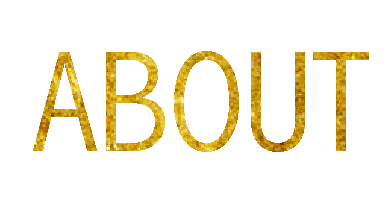
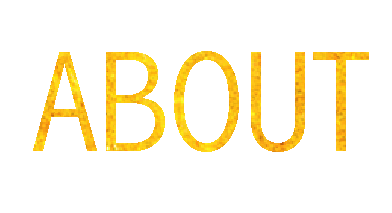
created portion of about section

Changed region(s): [[0.0612, 0.2254, 0.6122, 0.7324], [0.6429, 0.2254, 0.949, 0.7324]]

diff --git a/views/About/about.css b/views/About/about.css
@@ -1,0 +1,117 @@
+@import url('https://fonts.googleapis.com/css?family=Open+Sans+Condensed:300');
+@import url('https://fonts.googleapis.com/css?family=Sacramento');
+
+/*font-family: 'Sacramento', cursive;
+font-family: 'Open Sans Condensed', sans-serif;
+*/
+
+.nav-container {
+    width: 100%;
+    height: 87px;
+    background: black;
+    display: flex;
+    justify-content: center;
+    align-items: center;
+}
+
+.about-text {
+    font-family: 'Sacramento', cursive;
+    font-size: 60px;
+    font-weight: 100;
+    color: gold;
+    /*text-transform: uppercase;*/
+    opacity: 0.7;
+    padding-top: 1.5vh;
+}
+
+.about-container {
+    width: 100%;
+    height: 72.8vh;
+    display: flex;
+    justify-content: space-around;
+    align-items: center;
+    padding-left: 5vw;
+    padding-right: 5vw;
+}
+
+.img-background {
+    width: 34.8vw;
+    height: 55.5vh;
+    background: url("../../images/gold-icons/gold-texture.jpg");
+    background-position: center;
+    background-repeat: no-repeat;
+    background-size: cover;
+    display: flex;
+    justify-content: center;
+    align-items: center;
+    z-index: 10;
+}
+
+.comp-img {
+    width: 33.7vw;
+    height: 53.5vh;
+    background: url("../../images/content-pics/content50.jpg");
+    background-position: center;
+    background-repeat: no-repeat;
+    background-size: cover;
+    z-index: 90;
+    display: flex;
+    justify-content: center;
+    align-items: center;
+}
+
+.mission-img {
+    width: 33.7vw;
+    height: 53.5vh;
+    background: url("../../images/content-pics/content51.jpg");
+    background-position: center;
+    background-repeat: no-repeat;
+    background-size: cover;
+    z-index: 90;
+    display: flex;
+    justify-content: center;
+    align-items: center;
+}
+
+.colorize:hover {
+    -webkit-filter: grayscale(0%);
+    -webkit-transition: .3s ease-in-out;
+    -moz-filter: grayscale(0%);
+    -moz-transition: .3s ease-in-out;
+    -o-filter: grayscale(0%);
+    -o-transition: .3s ease-in-out;
+}
+
+.colorize {
+    -webkit-filter: grayscale(100%);
+    -webkit-transition: .3s ease-in-out;
+    -moz-filter: grayscale(100%);
+    -moz-transition: .3s ease-in-out;
+    -o-filter: grayscale(100%);
+    -o-transition: .3s ease-in-out;
+}
+
+.about-title {
+    color: white;
+    font-size: 5vw;
+    font-family: 'Open Sans Condensed', sans-serif;
+    text-shadow: -1px -1px 0 #B29600, 1px -1px 0 #B29600, -1px 1px 0 #B29600, 1px 1px 0 #B29600;
+}
+
+.social-media {
+    width: 100%;
+    height: 87px;
+    padding-left: 35vw;
+    padding-right: 35vw;
+    background: black;
+    position: absolute;
+    bottom: 0;
+    display: flex;
+    justify-content: space-around;
+    align-items: center;
+}
+
+.social {
+    width: 3.8vw;
+    opacity: 0.8;
+}

diff --git a/views/Home/home.css b/views/Home/home.css
@@ -4,36 +4,41 @@ body {
   width: 100%;
 }
 
-.full-page {
+.nav-bar {
   width: 100%;
-  height: 100vh;
-  background-color: black;
+  position: absolute;
 }
 
 .page-container {
   width: 100%;
   height: 100vh;
-  background: url('../../images/tinsel-pics/slide6.JPG') no-repeat center;
+  background: url('../../images/tinsel-pics/slide8.JPG') no-repeat center;
   background-size: cover;
 }
 
-.slideout-menu-toggle {
-  width: 6vw;
+.menu-toggle {
+  width: 82px;
   padding: 10px;
   position: relative;
-  z-index: 10;
+  z-index: 51;
+  opacity: 0.6;
+}
+
+.menu-toggle:hover {
+  cursor: pointer;
 }
 
 .slideout-menu {
   width: 100%;
-  height: 13vh;
+  height: 82px;
   background-color: black;
-  opacity: 0.6;
-  /*display: none;*/
+  opacity: 0.7;
+  display: none;
   position: absolute;
   top: 0;
   left: 0;
   width: 100%;
+  z-index: 50;
 }
 
 .page-buttons {
@@ -41,6 +46,7 @@ body {
   align-items: center;
   justify-content: space-around;
   /*position: absolute;*/
+  z-index: 51;
 }
 
 li {
@@ -48,37 +54,40 @@ li {
 }
 
 .button1 {
-  width: 6vw;
+  width: 85px;
   padding-top: 2.7vh;
 }
 
 .button2 {
-  width: 7.7vw;
+  width: 107px;
   padding-top: 1.8vh;
 }
 
 .button3 {
-  width: 9.4vw;
+  width: 130px;
   padding-top: 2.6vh;
 }
 
 .button4 {
-  width: 7.4vw;
+  width: 103px;
   padding-top: 2.3vh;
 }
 
 .image-container {
   width: 100%;
-  height: 86.5vh;
+  height: 100vh;
   /*background-color: gray;*/
   display: flex;
   align-items: center;
   justify-content: center;
+  z-index: 25;
+  position: absolute;
+  top: 0;
+  left: 0;
 }
 
 .gold-logo {
-  width: 21vw;
-  z-index: 10;
+  width: 335px;
+  z-index: 50;
   position: relative;
-  padding-bottom: 5vh;
 }

diff --git a/index.html b/index.html
@@ -6,10 +6,24 @@
     <title>Tinsel Events</title>
     <link rel="stylesheet" href="https://maxcdn.bootstrapcdn.com/bootstrap/3.3.7/css/bootstrap.css">
     <link rel="stylesheet" href="/views/home/home.css">
+    <link rel="stylesheet" href="/views/about/about.css">
     <base href="/">
 </head>
 
 <body>
+    <nav class="nav-bar">
+        <div class="menu-button">
+            <img src="./images/menu-button.png" class="menu-toggle">
+        </div>
+        <div class="slideout-menu">
+            <ul class="page-buttons">
+                <a ui-sref="about"><li><img src="./images/About.png" id="menu-hide" class="button1"></li></a>
+                <li><img src="./images/Services.png" id="menu-hide" class="button2"></li>
+                <li><img src="./images/Gallery.png" id="menu-hide" class="button3"></li>
+                <li><img src="./images/Contact.png" id="menu-hide" class="button4"></li>
+            </ul>
+        </div>
+    </nav>
 
     <div ui-view></div>
 
@@ -20,6 +34,7 @@
     <script src="./sources/moment.js"></script>
     <script src="./views/app.js"></script>
     <script src="./views/home/home.js"></script>
+    <script src="./views/about/about.js"></script>
 </body>
 
 </html>

diff --git a/views/Home/home.js b/views/Home/home.js
@@ -1,22 +1,21 @@
-$(document).ready(function () {
-    $('.slideout-menu-toggle').on('click', function(event){
-    	event.preventDefault();
-    	// create menu variables
-    	var slideoutMenu = $('.slideout-menu');
-    	var slideoutMenuWidth = $('.slideout-menu').width();
+// HAMBURGER MENU
 
-    	// toggle open class
-    	slideoutMenu.toggleClass("open");
+var clickedOn = false;
 
-    	// slide menu
-    	if (slideoutMenu.hasClass("open")) {
-	    	slideoutMenu.animate({
-		    	left: "0px"
-	    	});
-    	} else {
-	    	slideoutMenu.animate({
-		    	left: -slideoutMenuWidth
-	    	}, 250);
-    	}
-    });
+$('.menu-toggle').click(function() {
+
+    if (!clickedOn) {
+        $('.slideout-menu').fadeIn('slow');
+        $('.about-text').fadeOut('slow');
+        clickedOn = true;
+    } else {
+        $('.slideout-menu').fadeOut('slow');
+        $('.about-text').fadeIn('slow');
+        clickedOn = false;
+    }
+});
+
+$('#menu-hide').click(function() {
+    $('.slideout-menu').hide();
+    clickedOn = false;
 });

diff --git a/views/Home/home.html b/views/Home/home.html
@@ -1,20 +1,7 @@
-<div class="full-page">
-    <div class="page-container">
-        <div class="menu-button">
-            <img src="./images/menu-button.png" class="slideout-menu-toggle">
-        </div>
-        <div class="slideout-menu">
-            <ul class="page-buttons">
-                <li><img src="./images/About.png" class="button1"></li>
-                <li><img src="./images/Services.png" class="button2"></li>
-                <li><img src="./images/Gallery.png" class="button3"></li>
-                <li><img src="./images/Contact.png" class="button4"></li>
-            </ul>
-        </div>
-        <div class="image-container">
-            <div>
-                <img src="./images/tinsel-gold.png" class="gold-logo">
-            </div>
+<div class="page-container">
+    <div class="image-container">
+        <div>
+            <img src="./images/tinsel-gold.png" class="gold-logo">
         </div>
     </div>
 </div>

diff --git a/views/About/about.html b/views/About/about.html
@@ -1,0 +1,23 @@
+<div class="nav-container">
+    <div class="about-text">About Tinsel</div>
+</div>
+
+<div class="about-container">
+    <div class="img-background">
+        <div class="comp-img colorize">
+            <p class="about-title">The Company</p>
+        </div>
+    </div>
+    <div class="img-background">
+        <div class="mission-img colorize">
+          <p class="about-title">Our Mission</p>
+        </div>
+    </div>
+</div>
+
+<div class="social-media">
+    <img src="../../images/gold-icons/64px/facebook.png" alt="facebook" class="social">
+    <img src="../../images/gold-icons/64px/instagram.png" alt="instagram" class="social">
+    <img src="../../images/gold-icons/64px/pinterest.png" alt="pinterest" class="social">
+    <img src="../../images/gold-icons/64px/twitter.png" alt="twitter" class="social">
+</div>
